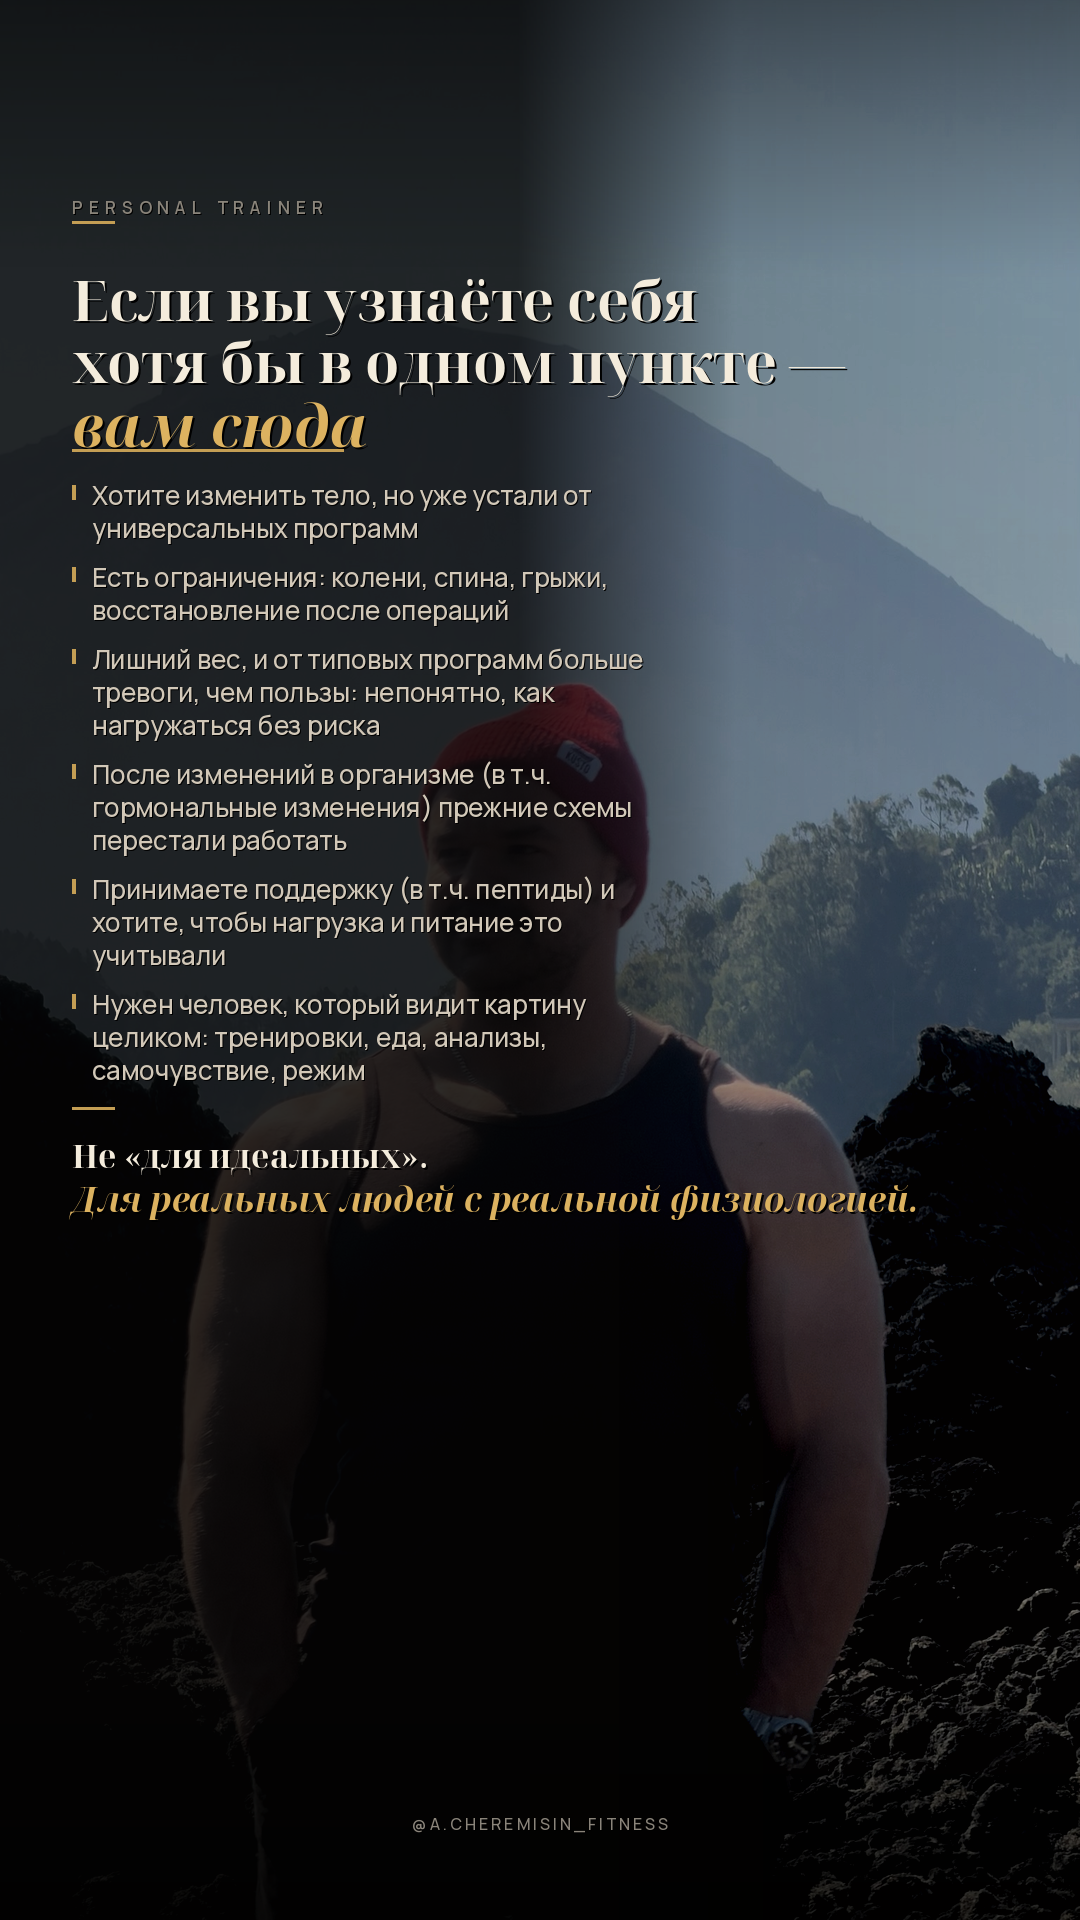
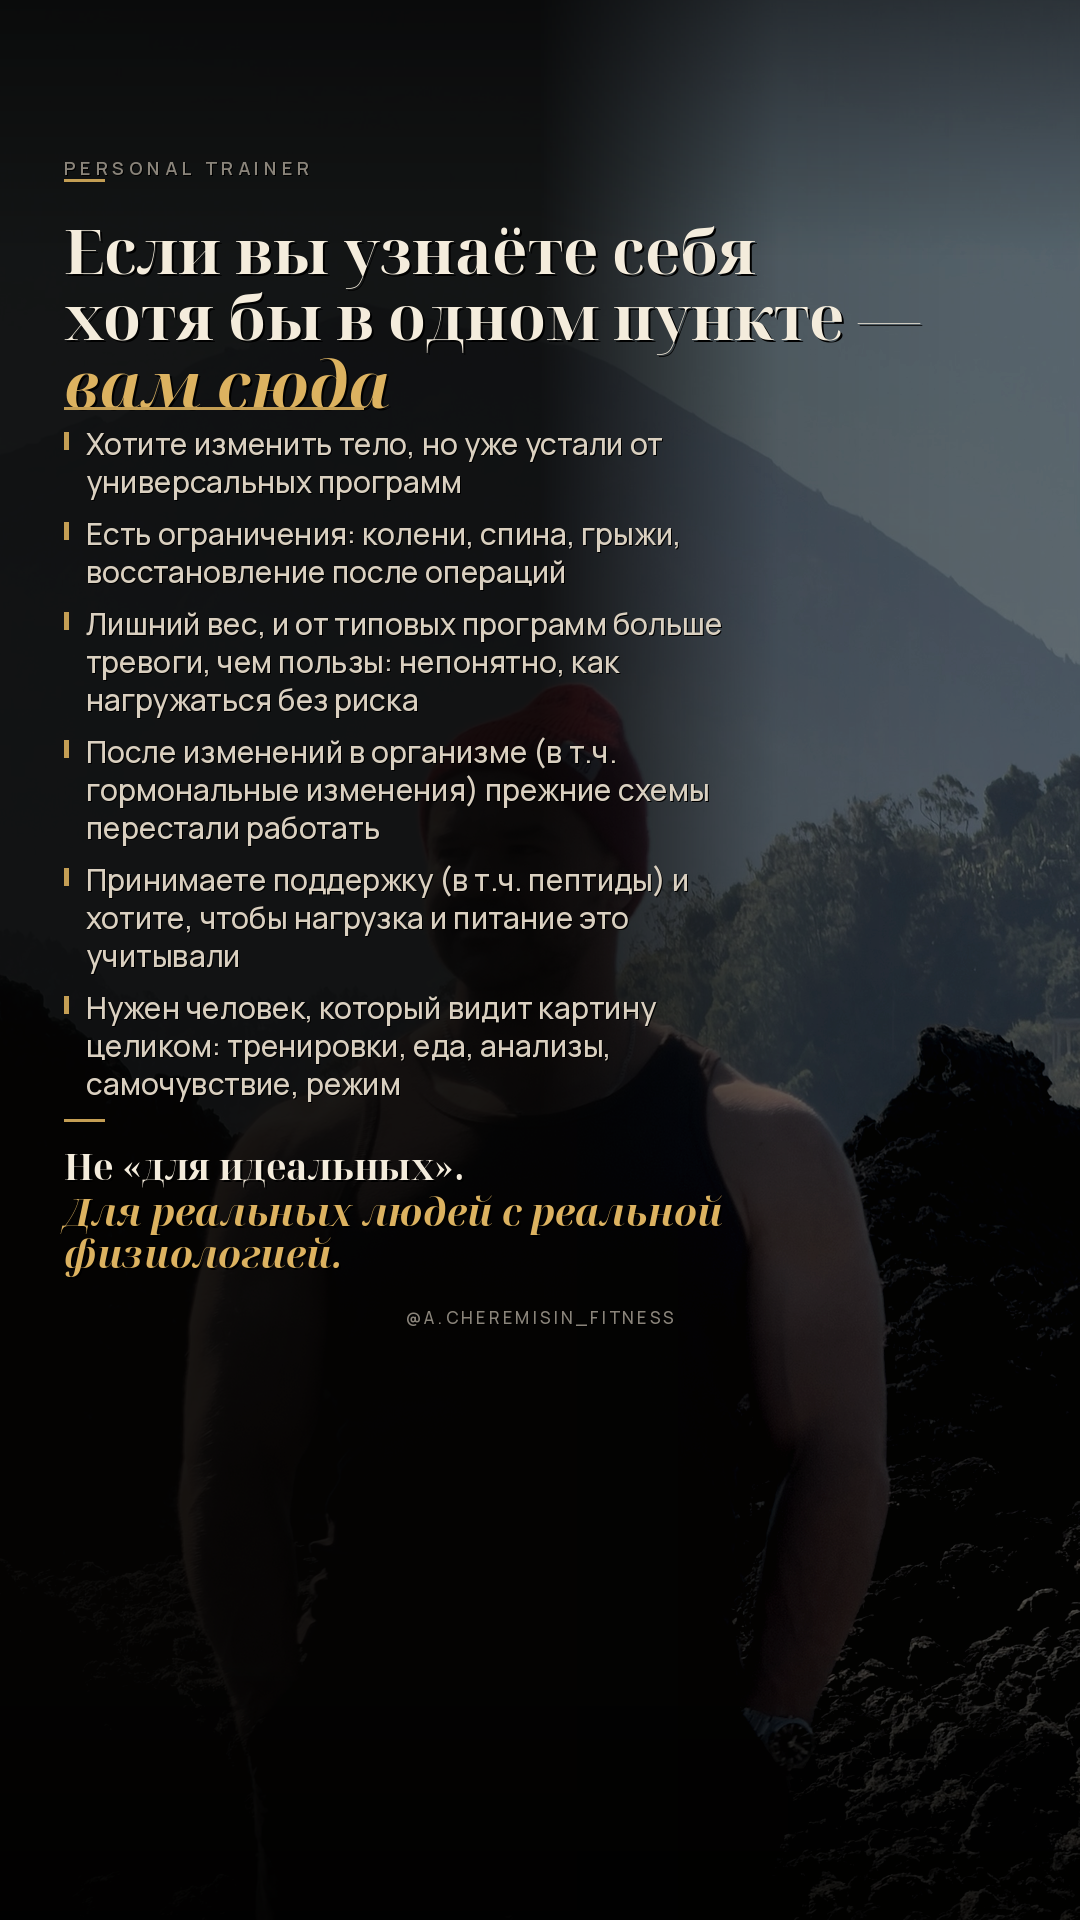
Tighten story density: larger type, even spacing, darker underlay
Increase headline/body sizes, keep light air between lines and
blocks while removing oversized empty gaps; darken the photo wash.

diff --git a/create_story.py b/create_story.py
@@ -2,9 +2,10 @@
 """
 Premium Instagram Stories slide.
 Dark editorial underlay + Noto Serif Display (high-contrast Didone from refs).
+Larger type, even density — air between lines/blocks, no huge empty gaps.
 """
 
-from PIL import Image, ImageDraw, ImageFont, ImageEnhance, ImageFilter
+from PIL import Image, ImageDraw, ImageFont, ImageEnhance
 from pathlib import Path
 
 W, H = 1080, 1920
@@ -16,20 +17,20 @@ OUT.mkdir(exist_ok=True)
 ART.mkdir(parents=True, exist_ok=True)
 
 CREAM = (244, 236, 220)
-CREAM_DIM = (210, 200, 184)
+CREAM_DIM = (218, 208, 192)
 GOLD = (220, 178, 96)
 GOLD_SOFT = (196, 158, 84)
 MUTED = (138, 132, 122)
 
-# High-contrast Didone display — fashion/editorial look from references
 NOTO = Path("/usr/share/fonts/truetype/noto")
-font_hook = ImageFont.truetype(str(NOTO / "NotoSerifDisplay-Bold.ttf"), 56)
-font_hook_it = ImageFont.truetype(str(NOTO / "NotoSerifDisplay-BoldItalic.ttf"), 58)
-font_close = ImageFont.truetype(str(NOTO / "NotoSerifDisplay-Bold.ttf"), 32)
-font_close_it = ImageFont.truetype(str(NOTO / "NotoSerifDisplay-BoldItalic.ttf"), 34)
-font_body = ImageFont.truetype(str(FONTS / "MR-500.ttf"), 26)
-font_label = ImageFont.truetype(str(FONTS / "MR-600.ttf"), 17)
-font_handle = ImageFont.truetype(str(FONTS / "MR-500.ttf"), 16)
+# Larger, more readable type
+font_hook = ImageFont.truetype(str(NOTO / "NotoSerifDisplay-Bold.ttf"), 62)
+font_hook_it = ImageFont.truetype(str(NOTO / "NotoSerifDisplay-BoldItalic.ttf"), 64)
+font_close = ImageFont.truetype(str(NOTO / "NotoSerifDisplay-Bold.ttf"), 36)
+font_close_it = ImageFont.truetype(str(NOTO / "NotoSerifDisplay-BoldItalic.ttf"), 38)
+font_body = ImageFont.truetype(str(FONTS / "MR-500.ttf"), 30)
+font_label = ImageFont.truetype(str(FONTS / "MR-600.ttf"), 18)
+font_handle = ImageFont.truetype(str(FONTS / "MR-500.ttf"), 17)
 
 
 def cover_crop(img: Image.Image, tw: int, th: int, focus=(0.65, 0.28)) -> Image.Image:
@@ -46,46 +47,37 @@ def cover_crop(img: Image.Image, tw: int, th: int, focus=(0.65, 0.28)) -> Image.
 
 
 def make_underlay(photo: Image.Image, focus) -> Image.Image:
-    """
-    Dark story underlay:
-    - photo pushed to the right (subject visible)
-    - left text column stays deep black
-    - overall moody grade, not crushed black
-    """
     base = cover_crop(photo, W, H, focus=focus)
 
-    # Keep subject readable, then grade moody (not crushed)
-    base = ImageEnhance.Brightness(base).enhance(0.82)
-    base = ImageEnhance.Color(base).enhance(0.68)
-    base = ImageEnhance.Contrast(base).enhance(1.22)
+    # Slightly darker than previous pass
+    base = ImageEnhance.Brightness(base).enhance(0.68)
+    base = ImageEnhance.Color(base).enhance(0.60)
+    base = ImageEnhance.Contrast(base).enhance(1.20)
 
-    # Warm dark blend (editorial) — light touch so photo stays present
-    warm = Image.new("RGB", (W, H), (12, 9, 7))
-    base = Image.blend(base, warm, 0.18)
+    warm = Image.new("RGB", (W, H), (10, 8, 6))
+    base = Image.blend(base, warm, 0.26)
     rgba = base.convert("RGBA")
 
-    # Left text panel: deep dark for type; right stays open so YOU are visible
     panel = Image.new("RGBA", (W, H), (0, 0, 0, 0))
     pd = ImageDraw.Draw(panel)
     for x in range(W):
         t = x / W
-        if t < 0.48:
-            a = 200
-        elif t < 0.68:
-            a = int(200 - (t - 0.48) / 0.20 * 155)
+        if t < 0.50:
+            a = 215
+        elif t < 0.72:
+            a = int(215 - (t - 0.50) / 0.22 * 150)
         else:
-            a = int(45 - (t - 0.68) / 0.32 * 25)
-        pd.line([(x, 0), (x, H)], fill=(5, 4, 3, max(12, a)))
+            a = int(65 - (t - 0.72) / 0.28 * 30)
+        pd.line([(x, 0), (x, H)], fill=(4, 3, 2, max(20, a)))
 
-    # Soft top/bottom vignette only
     vig = Image.new("RGBA", (W, H), (0, 0, 0, 0))
     vd = ImageDraw.Draw(vig)
-    for y in range(0, 280):
-        a = int(110 * (1 - y / 280) ** 1.1)
+    for y in range(0, 260):
+        a = int(120 * (1 - y / 260) ** 1.05)
         vd.line([(0, y), (W, y)], fill=(0, 0, 0, a))
-    for y in range(1680, H):
-        a = int(150 * ((y - 1680) / (H - 1680)) ** 0.9)
-        vd.line([(0, y), (W, y)], fill=(0, 0, 0, min(190, a)))
+    for y in range(1650, H):
+        a = int(165 * ((y - 1650) / (H - 1650)) ** 0.85)
+        vd.line([(0, y), (W, y)], fill=(0, 0, 0, min(200, a)))
 
     out = Image.alpha_composite(rgba, panel)
     out = Image.alpha_composite(out, vig)
@@ -127,25 +119,24 @@ def build(photo_path: Path, out_name: str, focus=(0.65, 0.28)):
     canvas = base.convert("RGBA")
     draw = ImageDraw.Draw(canvas)
 
-    margin = 72
-    content_w = 600  # left column — photo visible on right
-    y = 195
+    margin = 64
+    content_w = 720  # wider column → fewer wraps, larger readable lines
+    y = 155  # start higher — less empty top
 
-    spaced_label(draw, "PERSONAL TRAINER", font_label, (margin, y), MUTED, tracking=6)
-    y += 26
-    draw.rectangle([margin, y, margin + 42, y + 2], fill=GOLD_SOFT)
-    y += 40
+    spaced_label(draw, "PERSONAL TRAINER", font_label, (margin, y), MUTED, tracking=5)
+    y += 24
+    draw.rectangle([margin, y, margin + 40, y + 2], fill=GOLD_SOFT)
+    y += 28
 
-    # Large Didone headline
+    # Headline — tighter leading, still airy
     for line in ("Если вы узнаёте себя", "хотя бы в одном пункте —"):
         shadow_text(draw, (margin, y), line, font_hook, CREAM, offset=2)
-        y += 62
+        y += 66
 
-    # Italic gold accent — magazine emphasis
     shadow_text(draw, (margin, y), "вам сюда", font_hook_it, GOLD, offset=2)
     aw = draw.textlength("вам сюда", font=font_hook_it)
-    draw.rectangle([margin, y + 64, margin + aw * 0.92, y + 66], fill=GOLD_SOFT)
-    y += 92
+    draw.rectangle([margin, y + 68, margin + aw * 0.92, y + 70], fill=GOLD_SOFT)
+    y += 84  # was 92 — less empty before list
 
     bullets = [
         "Хотите изменить тело, но уже устали от универсальных программ",
@@ -156,37 +147,40 @@ def build(photo_path: Path, out_name: str, focus=(0.65, 0.28)):
         "Нужен человек, который видит картину целиком: тренировки, еда, анализы, самочувствие, режим",
     ]
 
+    line_h = 38       # air inside wrapped lines
+    block_gap = 14    # air between bullets — not huge
+
     for item in bullets:
-        lines = wrap_text(item, font_body, content_w - 24, draw)
-        draw.rectangle([margin, y + 8, margin + 3, y + 22], fill=GOLD_SOFT)
-        tx = margin + 20
+        lines = wrap_text(item, font_body, content_w - 28, draw)
+        draw.rectangle([margin, y + 9, margin + 4, y + 26], fill=GOLD_SOFT)
+        tx = margin + 22
         for line in lines:
             shadow_text(draw, (tx, y), line, font_body, CREAM_DIM, offset=1)
-            y += 33
-        y += 16
+            y += line_h
+        y += block_gap
 
-    y += 6
-    draw.rectangle([margin, y, margin + 42, y + 2], fill=GOLD_SOFT)
-    y += 26
+    y += 4
+    draw.rectangle([margin, y, margin + 40, y + 2], fill=GOLD_SOFT)
+    y += 22
     shadow_text(draw, (margin, y), "Не «для идеальных».", font_close, CREAM, offset=2)
-    y += 42
-    shadow_text(
-        draw,
-        (margin, y),
-        "Для реальных людей с реальной физиологией.",
-        font_close_it,
-        GOLD,
-        offset=2,
-    )
+    y += 44
+    # Closing may wrap on one long line — keep as one if fits
+    close = "Для реальных людей с реальной физиологией."
+    close_lines = wrap_text(close, font_close_it, content_w, draw)
+    for line in close_lines:
+        shadow_text(draw, (margin, y), line, font_close_it, GOLD, offset=2)
+        y += 42
 
     handle = "@A.CHEREMISIN_FITNESS"
     total = sum(draw.textlength(ch, font=font_handle) + 3 for ch in handle) - 3
-    spaced_label(draw, handle, font_handle, ((W - total) / 2, H - 108), MUTED, tracking=3)
+    # Place handle closer to content (less empty bottom)
+    handle_y = min(H - 96, y + 36)
+    spaced_label(draw, handle, font_handle, ((W - total) / 2, handle_y), MUTED, tracking=3)
 
     final = canvas.convert("RGB")
     for dest in (OUT / out_name, ART / out_name):
         final.save(dest, "PNG")
-        print("saved", dest)
+        print("saved", dest, "content_end_y=", y)
     return OUT / out_name
 
 
